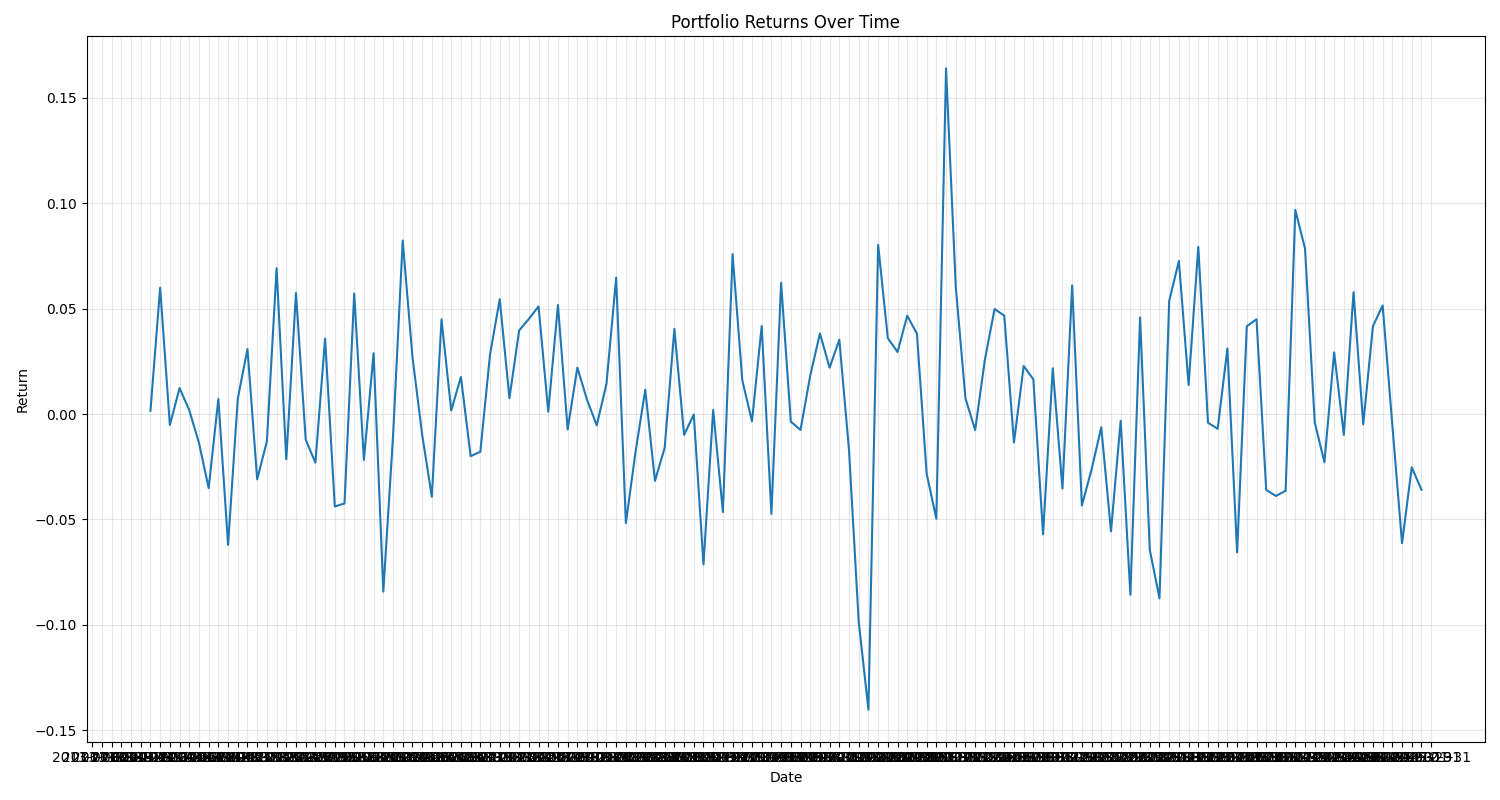
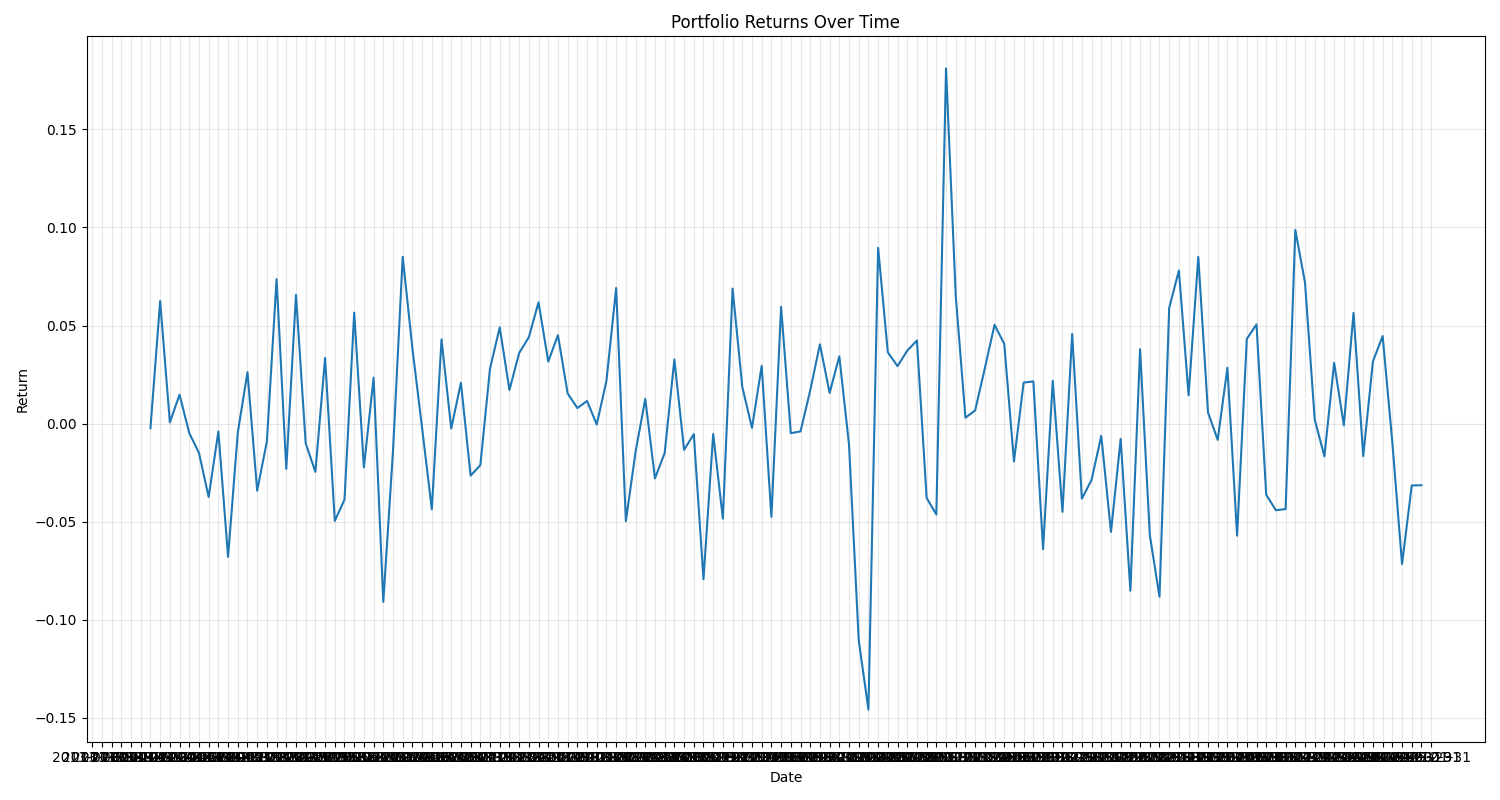
thomas

diff --git a/DataHandler/Standard_Asset_Allocation.py b/DataHandler/Standard_Asset_Allocation.py
@@ -29,51 +29,35 @@ def calculate_expected_returns(returns_df, window=120):
 
 def handle_missing_returns(returns_df):
     """
-    Clean returns data by handling missing values and removing problematic assets.
+    Clean returns data by handling missing values.
+    Only interpolate single missing values.
     """
     # Get numeric data only (skip metadata columns)
     numeric_data = returns_df.iloc[:, 2:].apply(pd.to_numeric, errors='coerce')
     
-    # Remove assets with >50% missing values
-    missing_pct = numeric_data.isna().mean(axis=1)
-    valid_assets = missing_pct <= 0.5
-    numeric_data = numeric_data[valid_assets]
-    
-    # Fill missing values and handle infinities
-    numeric_data = numeric_data.ffill().bfill()
-    numeric_data = numeric_data.replace([np.inf, -np.inf], np.nan).fillna(numeric_data.mean())
+    # Interpolate single missing values
+    numeric_data = numeric_data.interpolate(method='linear', limit=1)
     
     # Create cleaned DataFrame
-    cleaned_returns = returns_df[valid_assets].copy()
+    cleaned_returns = returns_df.copy()
     cleaned_returns.iloc[:, 2:] = numeric_data
     
     return cleaned_returns
 
 def compute_covariance_matrix(returns_df, window=60):
     """
-    Compute a stable covariance matrix using a rolling window.
+    Compute covariance matrix using only existing returns data.
     """
     numeric_data = returns_df.iloc[:, 2:].apply(pd.to_numeric, errors='coerce')
     window_data = numeric_data.iloc[:, -window:]
     
-    # Handle any remaining NaN or inf values
-    window_data = window_data.replace([np.inf, -np.inf], np.nan)
-    window_data = window_data.fillna(window_data.mean())
-    
-    # Standardize data to improve numerical stability
-    scaler = (window_data.std() + 1e-8)  # Add small constant to avoid division by zero
-    standardized_data = window_data / scaler
-    
-    # Compute covariance matrix
-    cov_matrix = standardized_data.cov()
-    
-    # Scale back to original units
-    cov_matrix = cov_matrix * scaler.values.reshape(-1, 1) * scaler.values.reshape(1, -1)
+    # Compute covariance matrix directly without standardization
+    cov_matrix = window_data.cov()
     
     # Ensure positive definiteness
     cov_matrix = (cov_matrix + cov_matrix.T) / 2
     min_eig = np.linalg.eigvalsh(cov_matrix)[0]
-    if min_eig < 1e-6:  # Increased threshold for better stability
+    if min_eig < 1e-6:
         reg = abs(min_eig) + 1e-6
         cov_matrix += reg * np.eye(cov_matrix.shape[0])
     
@@ -81,7 +65,7 @@ def compute_covariance_matrix(returns_df, window=60):
 
 def optimize_portfolio(cov_matrix):
     """
-    Optimize portfolio weights to minimize variance.
+    Optimize portfolio weights to minimize variance with long-only constraint.
     """
     n_assets = cov_matrix.shape[0]
     
@@ -93,7 +77,7 @@ def optimize_portfolio(cov_matrix):
         # Objective: minimize variance
         objective = cp.Minimize(risk)
         
-        # Constraints: sum of weights = 1, all weights >= 0
+        # Constraints: sum of weights = 1, all weights >= 0 (long-only)
         constraints = [cp.sum(w) == 1, w >= 0]
         
         # Solve using ECOS solver
@@ -190,7 +174,7 @@ def run_portfolio_optimization(returns_df):
     for year in range(2013, 2024):
         print(f"\nProcessing year: {year}")
         
-        # Find rebalancing date
+        # Find rebalancing date (December)
         rebalancing_date = pd.Timestamp(f"{year}-12-31")
         closest_date = dt_cols[dt_cols <= rebalancing_date].max()
         
@@ -206,10 +190,6 @@ def run_portfolio_optimization(returns_df):
         window_cols = time_cols[t-window_size:t]
         window_data = numeric_data[window_cols]
         
-        # Handle any NaN or inf values in window data
-        window_data = window_data.replace([np.inf, -np.inf], np.nan)
-        window_data = window_data.fillna(window_data.mean())
-        
         # Optimize portfolio
         cov_matrix = compute_covariance_matrix(pd.DataFrame(window_data), window=window_size)
         weights = optimize_portfolio(cov_matrix)
@@ -220,8 +200,7 @@ def run_portfolio_optimization(returns_df):
         print(f"Maximum weight: {np.max(weights):.4f}")
         print(f"Minimum non-zero weight: {np.min(weights[weights > 0]):.4f}")
         
-        # Plot the covariance matrix and asset allocation for this year
-        plot_covariance_matrix(cov_matrix, f"Covariance Matrix (Dec {year})")
+        # Plot the asset allocation for this year
         plot_asset_allocation(weights, f"Asset Allocation (Dec {year})")
         
         # Compute ex-post returns for the next year
@@ -254,33 +233,6 @@ def run_portfolio_optimization(returns_df):
     metrics = compute_portfolio_metrics(ex_post_returns.dropna(), rf_rates[ex_post_returns.index])
     
     return metrics, ex_post_returns
-
-def plot_covariance_matrix(cov_matrix, title="Covariance Matrix"):
-    """
-    Plot the covariance matrix as a heatmap with improved visualization.
-    """
-    plt.figure(figsize=(12, 10))
-    
-    # Scale the covariance matrix for better visualization
-    scaled_cov = cov_matrix.copy()
-    std_devs = np.sqrt(np.diag(scaled_cov))
-    scaled_cov = scaled_cov / (std_devs[:, np.newaxis] * std_devs[np.newaxis, :])
-    
-    # Create heatmap with better color scaling
-    heatmap = sns.heatmap(scaled_cov, 
-                         cmap='RdYlBu_r',
-                         center=0,
-                         vmin=-1,
-                         vmax=1,
-                         square=True,
-                         xticklabels=False,
-                         yticklabels=False,
-                         cbar_kws={'label': 'Correlation'})
-    
-    plt.title(f"{title}\n(Correlation Matrix View)")
-    plt.tight_layout()
-    plt.savefig('covariance_matrix.png', dpi=300, bbox_inches='tight')
-    plt.close()
 
 def plot_asset_allocation(weights, title="Asset Allocation"):
     """
@@ -320,7 +272,15 @@ def plot_asset_allocation(weights, title="Asset Allocation"):
              bbox=dict(boxstyle='round', facecolor='white', alpha=0.8))
     
     plt.tight_layout()
-    plt.savefig('asset_allocation.png', dpi=300, bbox_inches='tight')
+    
+    # Extract year from title if available
+    if "Dec" in title:
+        year = title.split("Dec")[1].strip().strip(")")
+        filename = f'asset_allocation_{year}.png'
+    else:
+        filename = 'asset_allocation.png'
+    
+    plt.savefig(filename, dpi=300, bbox_inches='tight')
     plt.close()
 
 if __name__ == "__main__":
@@ -329,6 +289,14 @@ if __name__ == "__main__":
     returns_file = os.path.join(base_dir, "..", "Data", "Simple_Returns.xlsx")
     
     if os.path.exists(returns_file):
+        # Clean up old plot files
+        for file in os.listdir('.'):
+            if file.startswith(('asset_allocation_', 'portfolio_returns')):
+                try:
+                    os.remove(file)
+                except Exception as e:
+                    print(f"Error removing {file}: {str(e)}")
+        
         returns_df = pd.read_excel(returns_file)
         print("Returns data shape:", returns_df.shape)
         
